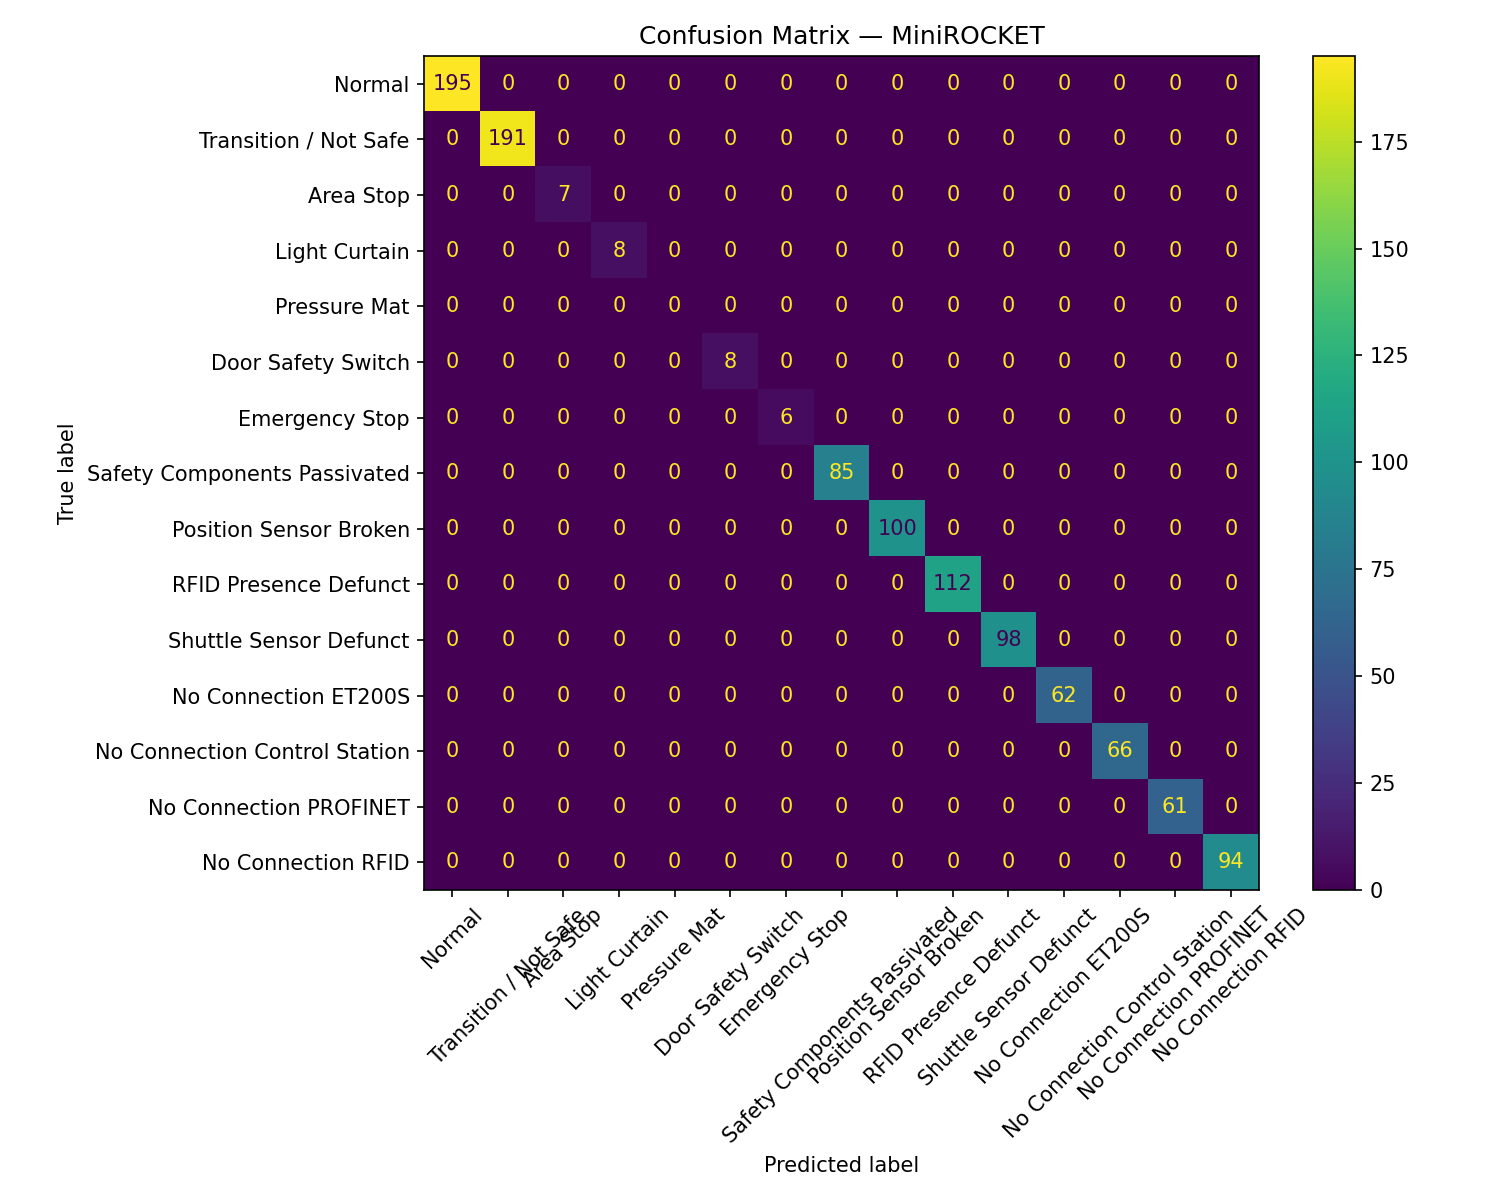
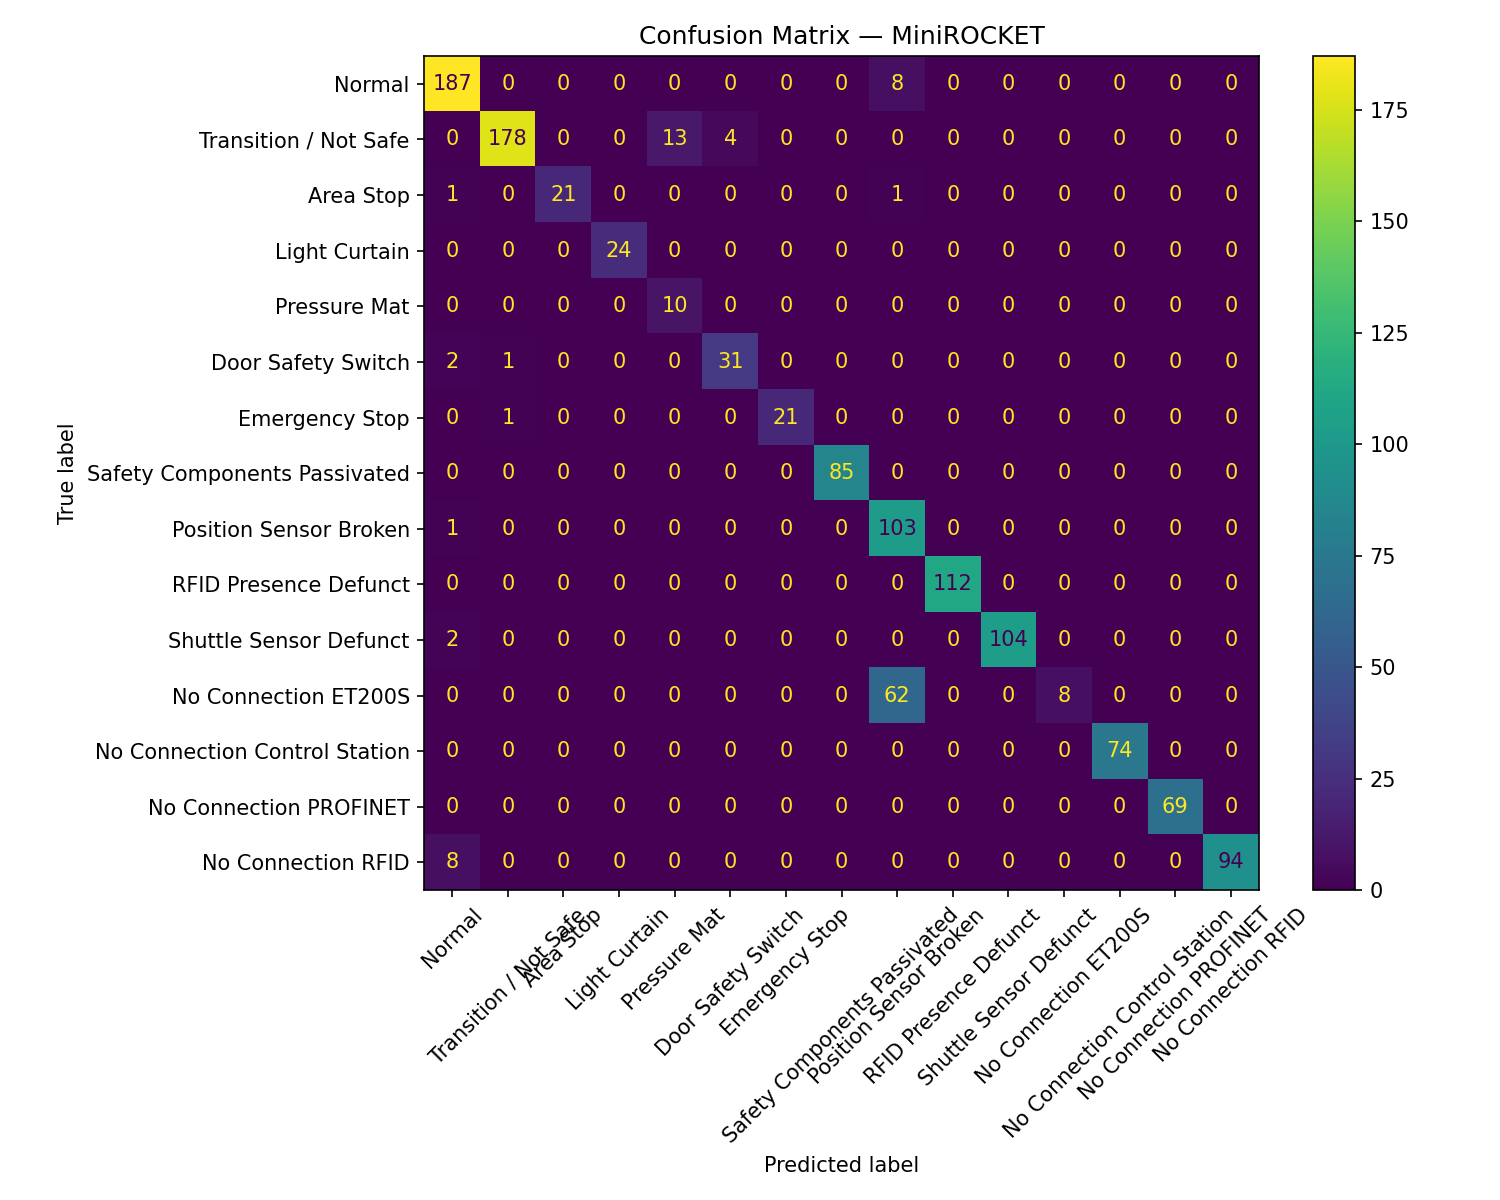
feat(windowing): split train/test window strategies with First Fault Label and 4:1 mixed sampling
- Test set: replace Pure Window with First Fault Label + stride=16, no window discarding
- Train set: add First Fault Label pass (stride=16) alongside Pure Window, downsampled 4:1
- Filter pure-Normal windows from train First Fault Label pass
- Add TEST_STRIDE_STEPS and TRAIN_STRIDE_STEPS to config
- Drop low-variance channels (std <= 1e-06) before training to fix aeon ValueError on ch33

Result: Macro F1 0.81 → 0.88, Case 4 F1 0.00 → 0.61

diff --git a/preprocessing.py b/preprocessing.py
@@ -18,6 +18,7 @@ from config import (
     TIMESTAMP_COLS, LABEL_COL, LABEL_REMAP, VALID_LABELS,
     TARGET_HZ, WINDOW_STEPS, STRIDE_STEPS,
 )
+from config import TEST_STRIDE_STEPS
 
 logger = logging.getLogger(__name__)
 
@@ -54,10 +55,16 @@ def _extract_windows(
     labels: np.ndarray,     # shape (n_timesteps,)
     window_len: int,
     stride: int,
+    mode: str = "train",
 ) -> tuple[np.ndarray, np.ndarray]:
     """
     Slide a window over the time axis.
-    Pure Window strategy: only keep windows where every timestep shares the same label.
+
+    Modes:
+      - "train": Pure Window strategy (keep windows where every timestep has same label).
+      - "test" : Keep every window. Assign label = first non-zero label inside window,
+                 or 0 if none. This produces denser test windows and does not discard
+                 mixed-label windows.
 
     Returns:
         X: (n_windows, n_channels, window_len)
@@ -70,15 +77,59 @@ def _extract_windows(
         end = start + window_len
         window_labels = labels[start:end]
 
-        unique = np.unique(window_labels)
-        if len(unique) != 1:
-            continue                  # mixed-label window; skip
+        if mode == "train":
+            # Original Pure Window behaviour: skip mixed-label windows
+            unique = np.unique(window_labels)
+            if len(unique) != 1:
+                continue
+            label = int(unique[0])
+            if label not in VALID_LABELS:
+                continue
 
-        label = int(unique[0])
-        if label not in VALID_LABELS:
-            continue                  # discard unmapped / out-of-range labels
+        else:  # mode == "test"
+            # Keep every window. Assign first non-zero label found, else 0.
+            non_zero = window_labels[window_labels != 0]
+            label = int(non_zero[0]) if len(non_zero) > 0 else 0
+            if label not in VALID_LABELS:
+                # If label after remap is out of valid range, skip to avoid invalid targets
+                continue
 
         windows_X.append(features[start:end].T)   # (n_channels, window_len)
+        windows_y.append(label)
+
+    if len(windows_X) == 0:
+        return np.empty((0, n_channels, window_len), dtype=np.float32), np.empty((0,), dtype=np.int32)
+
+    return np.stack(windows_X).astype(np.float32), np.array(windows_y, dtype=np.int32)
+
+
+def extract_windows_first_fault(
+    features: np.ndarray,   # shape (n_timesteps, n_channels)
+    labels: np.ndarray,     # shape (n_timesteps,)
+    window_len: int,
+    stride: int,
+) -> tuple[np.ndarray, np.ndarray]:
+    """
+    Slide windows with given stride. For each window keep it only if there is a
+    non-zero label inside. Assign the first non-zero label as the window label.
+
+    This is intended for the First Fault Label pass used on training files.
+    Returns X (n_windows, n_channels, window_len) and y (n_windows,)
+    """
+    n_timesteps, n_channels = features.shape
+    windows_X, windows_y = [], []
+
+    for start in range(0, n_timesteps - window_len + 1, stride):
+        end = start + window_len
+        window_labels = labels[start:end]
+        non_zero = window_labels[window_labels != 0]
+        if len(non_zero) == 0:
+            # skip windows that contain only label 0
+            continue
+        label = int(non_zero[0])
+        if label not in VALID_LABELS:
+            continue
+        windows_X.append(features[start:end].T)
         windows_y.append(label)
 
     if len(windows_X) == 0:
@@ -105,9 +156,83 @@ def get_feature_cols(df: pd.DataFrame) -> list[str]:
     exclude = set(TIMESTAMP_COLS) | {LABEL_COL}
     return [c for c in df.columns if c not in exclude]
 
-def process_file(filepath: str) -> tuple[np.ndarray, np.ndarray]:
+
+def resample_file(filepath: str) -> tuple[np.ndarray, np.ndarray, float]:
+    """Load CSV and resample features and labels to TARGET_HZ.
+
+    Returns (features_rs, labels_rs, src_hz)
+    features_rs: shape (n_timesteps_resampled, n_channels)
+    labels_rs:   shape (n_timesteps_resampled,)
+    src_hz:      estimated source Hz (float)
+    """
+    df = load_csv(filepath)
+    filename = os.path.basename(filepath)
+
+    feat_cols = get_feature_cols(df)
+    n_channels = len(feat_cols)
+
+    # Label remapping
+    raw_labels = df[LABEL_COL].values.astype(int)
+    labels = np.array([LABEL_REMAP.get(l, l) for l in raw_labels], dtype=np.int32)
+
+    # Feature matrix (timesteps x channels), cast to float
+    features_raw = df[feat_cols].values.astype(np.float32)
+
+    # Resample each channel independently
+    src_hz = _estimate_source_hz(df)
+
+    # Resample first channel to get actual output length
+    ch0_resampled = _resample_array(features_raw[:, 0], src_hz, TARGET_HZ)
+    actual_len = len(ch0_resampled)
+
+    # Resample remaining channels with length normalization
+    features_rs = np.zeros((actual_len, n_channels), dtype=np.float32)
+    features_rs[:, 0] = ch0_resampled
+    for ch in range(1, n_channels):
+        ch_resampled = _resample_array(features_raw[:, ch], src_hz, TARGET_HZ)
+        # Handle minor length discrepancies (truncate or pad)
+        if len(ch_resampled) > actual_len:
+            features_rs[:, ch] = ch_resampled[:actual_len]
+        elif len(ch_resampled) < actual_len:
+            features_rs[:len(ch_resampled), ch] = ch_resampled
+        else:
+            features_rs[:, ch] = ch_resampled
+
+    # Resample labels to match actual feature length
+    label_indices = np.round(
+        np.linspace(0, len(labels) - 1, actual_len)
+    ).astype(int)
+    labels_rs = labels[label_indices]
+
+    # Zero-pad if shorter than one window
+    if actual_len < WINDOW_STEPS:
+        pad_len = WINDOW_STEPS - actual_len
+        logger.warning(
+            "%s: only %d steps after resampling; zero-padding %d steps.",
+            filename, actual_len, pad_len
+        )
+        # Pad with repeated last value for each channel (more realistic than zeros)
+        last_values = features_rs[-1:, :]  # (1, n_channels)
+        pad_features = np.tile(last_values, (pad_len, 1))
+        features_rs = np.vstack([features_rs, pad_features])
+
+        # Pad labels with the dominant label in the file
+        valid_labels = labels_rs[labels_rs >= 0]
+        if len(valid_labels) > 0:
+            dominant_label = int(np.bincount(valid_labels).argmax())
+        else:
+            dominant_label = 0  # Fallback to label 0 if no valid labels
+        labels_rs = np.pad(labels_rs, (0, pad_len), constant_values=dominant_label)
+
+    return features_rs, labels_rs, src_hz
+
+def process_file(filepath: str, mode: str = "train") -> tuple[np.ndarray, np.ndarray]:
     """
     Full preprocessing for a single CSV file.
+
+    Parameters:
+        filepath: path to CSV
+        mode: "train" or "test". Controls windowing behaviour and stride.
 
     Returns:
         X: (n_windows, n_channels, WINDOW_STEPS)  float32
@@ -174,6 +299,8 @@ def process_file(filepath: str) -> tuple[np.ndarray, np.ndarray]:
             dominant_label = 0  # Fallback to label 0 if no valid labels
         labels_rs = np.pad(labels_rs, (0, pad_len), constant_values=dominant_label)
 
-    X, y = _extract_windows(features_rs, labels_rs, WINDOW_STEPS, STRIDE_STEPS)
+    # Choose stride depending on mode (train or test)
+    stride = STRIDE_STEPS if mode == "train" else TEST_STRIDE_STEPS
+    X, y = _extract_windows(features_rs, labels_rs, WINDOW_STEPS, stride, mode=mode)
     logger.info("%s: %d windows extracted (src %.1f Hz)", filename, len(X), src_hz)
     return X, y

diff --git a/dataset.py b/dataset.py
@@ -11,8 +11,8 @@ import os
 import logging
 import numpy as np
 
-from config import DATA_DIR, TEST_FILE_MARKERS
-from preprocessing import process_file
+from config import DATA_DIR, TEST_FILE_MARKERS, TRAIN_STRIDE_STEPS, RANDOM_SEED, WINDOW_STEPS
+from preprocessing import process_file, resample_file, extract_windows_first_fault
 
 logger = logging.getLogger(__name__)
 
@@ -139,17 +139,60 @@ def build_dataset(data_dir: str = DATA_DIR, show_samples: int = 3) -> dict:
     train_files, test_files = split_files(data_dir)
 
     # function: collecting processed each file and stack results into (total_windows, 44, 128).
-    def _collect(file_list: list[str]) -> tuple[np.ndarray, np.ndarray]:
+    def _collect(file_list: list[str], mode: str = "train") -> tuple[np.ndarray, np.ndarray]:
+        """Collect processed windows from file_list.
+
+        mode: "train" or "test". Passed to preprocessing to control windowing.
+        """
         X_parts, y_parts = [], []
         for fp in file_list:
             try:
-                # Call preprocessing function
-                X, y = process_file(fp)
-                if len(X) > 0:
-                    X_parts.append(X)
-                    y_parts.append(y)
+                if mode == "train":
+                    # First pass: original Pure Window behaviour
+                    X_pure, y_pure = process_file(fp, mode="train")
+
+                    # Second pass: First Fault Label windows using TRAIN_STRIDE_STEPS
+                    try:
+                        features_rs, labels_rs, _ = resample_file(fp)
+                        X_ffl, y_ffl = extract_windows_first_fault(
+                            features_rs, labels_rs, WINDOW_STEPS, TRAIN_STRIDE_STEPS
+                        )
+                    except Exception as e:
+                        logger.error("Failed first-fault extraction for %s: %s", fp, e)
+                        X_ffl, y_ffl = np.empty((0,)), np.empty((0,))
+
+                    # Downsample ffl windows to match number of pure windows (1:1) if needed
+                    n_pure = len(X_pure) if hasattr(X_pure, "shape") else 0
+                    if n_pure > 0 and len(X_ffl) > n_pure:
+                        rng = np.random.default_rng(RANDOM_SEED)
+                        # Downsample First Fault Label windows to a 4:1 ratio vs pure windows.
+                        # Keep at least one sample when n_pure is small.
+                        idx = rng.choice(len(X_ffl), size=max(1, n_pure // 4), replace=False)
+                        X_ffl = X_ffl[idx]
+                        y_ffl = y_ffl[idx]
+
+                    # Combine both passes
+                    if (len(X_pure) == 0) and (len(X_ffl) == 0):
+                        logger.warning("No windows extracted from %s in both passes; skipping.", fp)
+                        continue
+                    elif len(X_pure) == 0:
+                        X_combined, y_combined = X_ffl, y_ffl
+                    elif len(X_ffl) == 0:
+                        X_combined, y_combined = X_pure, y_pure
+                    else:
+                        X_combined = np.concatenate([X_pure, X_ffl], axis=0)
+                        y_combined = np.concatenate([y_pure, y_ffl], axis=0)
+
+                    X_parts.append(X_combined)
+                    y_parts.append(y_combined)
                 else:
-                    logger.warning("No windows extracted from %s; skipping.", fp)
+                    # Test mode: use existing process_file behaviour (First Fault Label + TEST_STRIDE_STEPS)
+                    X, y = process_file(fp, mode=mode)
+                    if len(X) > 0:
+                        X_parts.append(X)
+                        y_parts.append(y)
+                    else:
+                        logger.warning("No windows extracted from %s; skipping.", fp)
             except Exception as exc:
                 # Log and continue so one bad file doesn't stop everything.
                 logger.error("Failed to process %s: %s", fp, exc)
@@ -158,9 +201,9 @@ def build_dataset(data_dir: str = DATA_DIR, show_samples: int = 3) -> dict:
 
     # Process files and collect all windows into final train/test arrays.
     logger.info("Processing training files ...")
-    X_train, y_train = _collect(train_files)
+    X_train, y_train = _collect(train_files, mode="train")
     logger.info("Processing test files ...")
-    X_test, y_test = _collect(test_files)
+    X_test, y_test = _collect(test_files, mode="test")
 
     # Fit on training data only;
     # but apply the same statistics to the test set.

diff --git a/config.py b/config.py
@@ -15,6 +15,12 @@ TARGET_HZ = 64                  # Unified resampling frequency (Hz)
 WINDOW_STEPS = 128              # Window length in samples at TARGET_HZ (= 2 seconds)
 STRIDE_STEPS = 16               # Slide stride (= 1 second, 50% overlap)
 
+# --- Test stride (use a smaller stride on the test set for denser evaluation)
+TEST_STRIDE_STEPS = 16         # stride to use when creating test windows (samples)
+
+# --- Training stride for First Fault Label pass
+TRAIN_STRIDE_STEPS = 16       # stride for the First Fault Label pass on training files
+
 # --- Label mapping ---
 # Merge transition states (15, 16, 17) into label 1 ("recovery transition")
 LABEL_REMAP = {15: 1, 16: 1, 17: 1}
